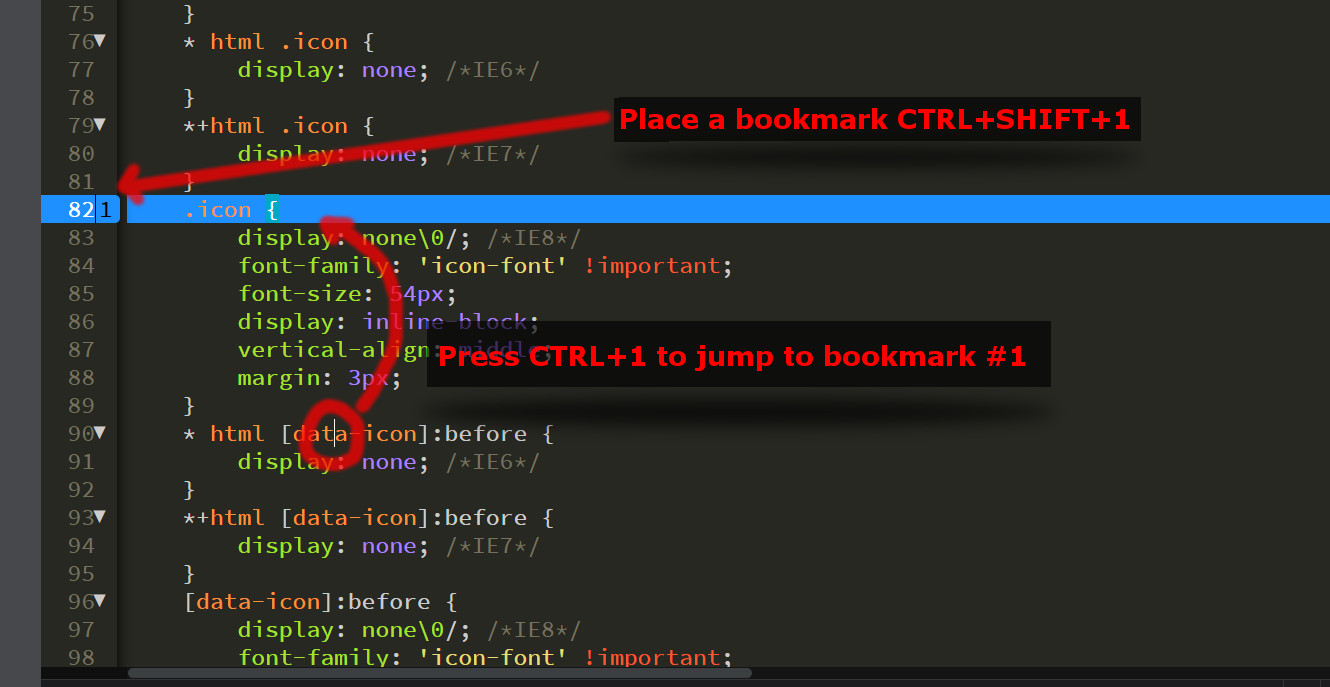
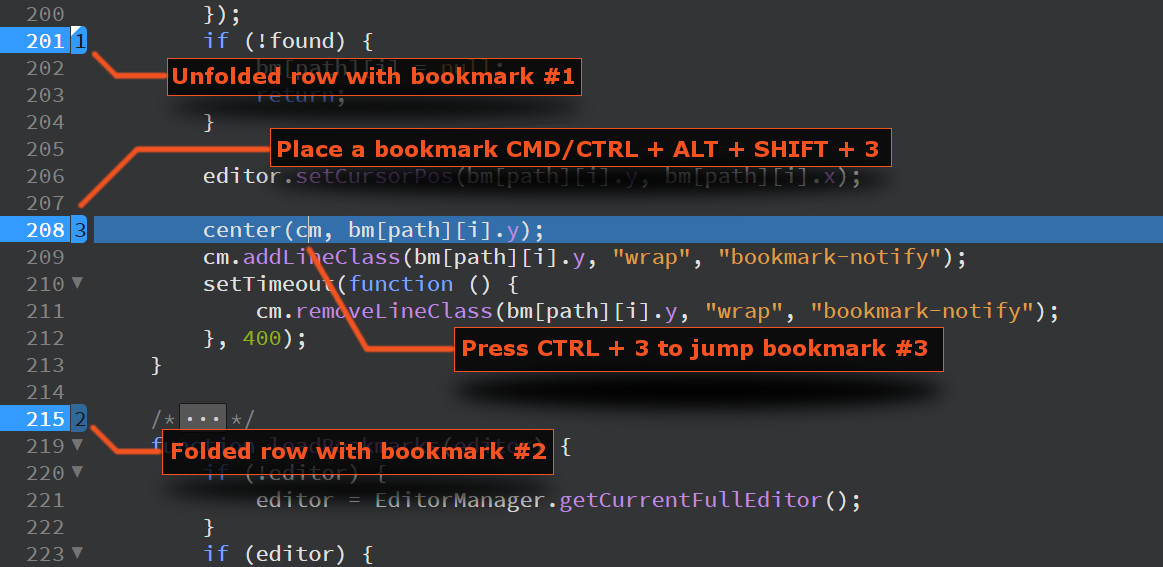
This fix #2, and fix #3 issues. Added fold/unfold indicator and a sexy transition when jump to bookmark.

diff --git a/styles/styles.css b/styles/styles.css
@@ -3,10 +3,9 @@
 }
 
 .bookmark .CodeMirror-linenumber {
-    /*background-image: url('../images/bookmark.svg');*/
-    background-size: 16px;
-    background-repeat: no-repeat;
+    background-color: dodgerblue !important;
     color: white !important;
+    height: 1.2em !important;
 }
 
 .active-pane .bookmark .CodeMirror-gutter-elt {
@@ -18,7 +17,14 @@
 }
 
 .bookmark-notify {
-    background-color: dodgerblue;
+      -webkit-animation: blink 0.4s linear infinite;
+      animation: blink 0.4s linear infinite;
+}
+@-webkit-keyframes blink {
+  50% { background-color: rgba(30, 144, 255, 0.7); }
+}
+@keyframes blink {
+  50% { background-color: rgba(30, 144, 255, 0.7); }
 }
 
 .bookmark-notify .CodeMirror-activeline-background {
@@ -33,27 +39,35 @@
     background-color: darkslateblue!important;
 }
 
-.bookmark.CodeMirror-activeline .CodeMirror-linenumber {
-    background-image: url('../images/bookmark.svg') !important;
-    background-size: 16px !important;
-    background-repeat: no-repeat !important;
-    color: white !important;
-}
-.bookmark-1 {
-/*    position: absolute; background: #6aa4cc; color: #000; border-left: 1px solid #000; border-top-right-radius: 3px; border-bottom-right-radius: 3px;*/
-}
-/*.bookmark-1 .CodeMirror-linenumber:after {*/
-
 
 .bookmark .CodeMirror-foldgutter-blank:first-child:after,
-.bookmark .CodeMirror-foldgutter-open:first-child:after {
-    border-left: 1px solid #000;
+.bookmark .CodeMirror-foldgutter-open:first-child:after,
+.bookmark .CodeMirror-foldgutter-folded:first-child:after {
     content:' ';
-    color: #000;
-    margin-left: 0px;
+    color: #000 !important;
+    margin-left: -2px;
     padding-left: 3px;
     line-height: 126%;
     font-size: 100%;
+    background: dodgerblue;
+    border-top-right-radius: 5px !important;
+    border-bottom-right-radius: 5px !important;
+    height: 1.2em !important;
+}
+.bookmark .CodeMirror-foldgutter-folded:first-child:after {
+    line-height: 106% !important;
+    background: rgba(30, 144, 255, 0.5);
+}
+.bookmark .CodeMirror-foldgutter-open:first-child:before {
+    content:' ';
+    top: -1px;
+    left: -2px;
+    width: 0;
+    height: 0;
+    position: absolute;
+    border-style: solid;
+    border-width: 10px 10px 0 0;
+    border-color: #ffffff transparent transparent transparent;
 }
 .bookmark .CodeMirror-foldgutter-open:first-child:after {
     line-height: 100%;
@@ -64,38 +78,47 @@
     border-bottom-right-radius: 5px !important;
 }
 .bookmark-1 .CodeMirror-foldgutter-blank:first-child:after,
-.bookmark-1 .CodeMirror-foldgutter-open:first-child:after {
+.bookmark-1 .CodeMirror-foldgutter-open:first-child:after,
+.bookmark-1 .CodeMirror-foldgutter-folded:first-child:after {
     content:'1';
 }
 .bookmark-2 .CodeMirror-foldgutter-blank:first-child:after,
-.bookmark-2 .CodeMirror-foldgutter-open:first-child:after {
+.bookmark-2 .CodeMirror-foldgutter-open:first-child:after,
+.bookmark-2 .CodeMirror-foldgutter-folded:first-child:after {
     content:'2';
 }
 .bookmark-3 .CodeMirror-foldgutter-blank:first-child:after,
-.bookmark-3 .CodeMirror-foldgutter-open:first-child:after {
+.bookmark-3 .CodeMirror-foldgutter-open:first-child:after,
+.bookmark-3 .CodeMirror-foldgutter-folded:first-child:after {
     content:'3';
 }
 .bookmark-4 .CodeMirror-foldgutter-blank:first-child:after,
-.bookmark-4 .CodeMirror-foldgutter-open:first-child:after {
+.bookmark-4 .CodeMirror-foldgutter-open:first-child:after,
+.bookmark-4 .CodeMirror-foldgutter-folded:first-child:after {
     content:'4';
 }
 .bookmark-5 .CodeMirror-foldgutter-blank:first-child:after,
-.bookmark-5 .CodeMirror-foldgutter-open:first-child:after {
+.bookmark-5 .CodeMirror-foldgutter-open:first-child:after,
+.bookmark-5 .CodeMirror-foldgutter-folded:first-child:after {
     content:'5';
 }
 .bookmark-6 .CodeMirror-foldgutter-blank:first-child:after,
-.bookmark-6 .CodeMirror-foldgutter-open:first-child:after {
+.bookmark-6 .CodeMirror-foldgutter-open:first-child:after,
+.bookmark-6 .CodeMirror-foldgutter-folded:first-child:after {
     content:'6';
 }
 .bookmark-7 .CodeMirror-foldgutter-blank:first-child:after,
-.bookmark-7 .CodeMirror-foldgutter-open:first-child:after {
+.bookmark-7 .CodeMirror-foldgutter-open:first-child:after,
+.bookmark-7 .CodeMirror-foldgutter-folded:first-child:after {
     content:'7';
 }
 .bookmark-8 .CodeMirror-foldgutter-blank:first-child:after,
-.bookmark-8 .CodeMirror-foldgutter-open:first-child:after {
+.bookmark-8 .CodeMirror-foldgutter-open:first-child:after,
+.bookmark-8 .CodeMirror-foldgutter-folded:first-child:after {
     content:'8';
 }
 .bookmark-9 .CodeMirror-foldgutter-blank:first-child:after,
-.bookmark-9 .CodeMirror-foldgutter-open:first-child:after {
+.bookmark-9 .CodeMirror-foldgutter-open:first-child:after,
+.bookmark-9 .CodeMirror-foldgutter-folded:first-child:after {
     content:'9';
 }

diff --git a/main.js b/main.js
@@ -58,17 +58,18 @@ define(function (require, exports, module) {
                 {key: shortcutMac, platform: "mac"},
             ]
         );
+        //KeyBindingManager.addBinding(commandId, shortcut);
     }
-    addhotkey("bracketsEditorBookmarks.deleteallbookmark",     "delete all bookmark",       function() {deleteAllBookmark()},   "Ctrl-Shift-Delete", "Cmd-ALT-Delete");
-    addhotkey("bracketsEditorBookmarks.setbookmark1",     "set #1",       function() {setBookmark(1)},   "Ctrl-Shift-1", "Cmd-ALT-1");
-    addhotkey("bracketsEditorBookmarks.setbookmark2",     "set #2",       function() {setBookmark(2)},   "Ctrl-Shift-2", "Cmd-ALT-2");
-    addhotkey("bracketsEditorBookmarks.setbookmark3",     "set #3",       function() {setBookmark(3)},   "Ctrl-Shift-3", "Cmd-ALT-3");
-    addhotkey("bracketsEditorBookmarks.setbookmark4",     "set #4",       function() {setBookmark(4)},   "Ctrl-Shift-4", "Cmd-ALT-4");
-    addhotkey("bracketsEditorBookmarks.setbookmark5",     "set #5",       function() {setBookmark(5)},   "Ctrl-Shift-5", "Cmd-ALT-5");
-    addhotkey("bracketsEditorBookmarks.setbookmark6",     "set #6",       function() {setBookmark(6)},   "Ctrl-Shift-6", "Cmd-ALT-6");
-    addhotkey("bracketsEditorBookmarks.setbookmark7",     "set #7",       function() {setBookmark(7)},   "Ctrl-Shift-7", "Cmd-ALT-7");
-    addhotkey("bracketsEditorBookmarks.setbookmark8",     "set #8",       function() {setBookmark(8)},   "Ctrl-Shift-8", "Cmd-ALT-8");
-    addhotkey("bracketsEditorBookmarks.setbookmark9",     "set #9",       function() {setBookmark(9)},   "Ctrl-Shift-9", "Cmd-ALT-9");
+    addhotkey("bracketsEditorBookmarks.deleteallbookmark",     "delete all bookmark",       function() {deleteAllBookmark()},   "Ctrl-Shift-Alt-Delete", "Cmd-ALT-Delete");
+    addhotkey("bracketsEditorBookmarks.setbookmark1",     "set #1",       function() {setBookmark(1)},   "Ctrl-Shift-Alt-1", "Cmd-SHIFT-ALT-1");
+    addhotkey("bracketsEditorBookmarks.setbookmark2",     "set #2",       function() {setBookmark(2)},   "Ctrl-Shift-Alt-2", "Cmd-SHIFT-ALT-2");
+    addhotkey("bracketsEditorBookmarks.setbookmark3",     "set #3",       function() {setBookmark(3)},   "Ctrl-Shift-Alt-3", "Cmd-SHIFT-ALT-3");
+    addhotkey("bracketsEditorBookmarks.setbookmark4",     "set #4",       function() {setBookmark(4)},   "Ctrl-Shift-Alt-4", "Cmd-SHIFT-ALT-4");
+    addhotkey("bracketsEditorBookmarks.setbookmark5",     "set #5",       function() {setBookmark(5)},   "Ctrl-Shift-Alt-5", "Cmd-SHIFT-ALT-5");
+    addhotkey("bracketsEditorBookmarks.setbookmark6",     "set #6",       function() {setBookmark(6)},   "Ctrl-Shift-Alt-6", "Cmd-SHIFT-ALT-6");
+    addhotkey("bracketsEditorBookmarks.setbookmark7",     "set #7",       function() {setBookmark(7)},   "Ctrl-Shift-Alt-7", "Cmd-SHIFT-ALT-7");
+    addhotkey("bracketsEditorBookmarks.setbookmark8",     "set #8",       function() {setBookmark(8)},   "Ctrl-Shift-Alt-8", "Cmd-SHIFT-ALT-8");
+    addhotkey("bracketsEditorBookmarks.setbookmark9",     "set #9",       function() {setBookmark(9)},   "Ctrl-Shift-Alt-9", "Cmd-SHIFT-ALT-9");
     addhotkey("bracketsEditorBookmarks.bookmark1",        "#1",           function() {bookmark(1)},      "Ctrl-1", "Cmd-1");
     addhotkey("bracketsEditorBookmarks.bookmark2",        "#2",           function() {bookmark(2)},      "Ctrl-2", "Cmd-2");
     addhotkey("bracketsEditorBookmarks.bookmark3",        "#3",           function() {bookmark(3)},      "Ctrl-3", "Cmd-3");
@@ -208,7 +209,7 @@ define(function (require, exports, module) {
         cm.addLineClass(bm[path][i].y, "wrap", "bookmark-notify");
         setTimeout(function () {
             cm.removeLineClass(bm[path][i].y, "wrap", "bookmark-notify");
-        }, 100);
+        }, 400);
     }
 
     /**

diff --git a/README.md b/README.md
@@ -1,5 +1,5 @@
 # Brackets Numbered Bookmarks Extension
-[Robert Girhiny](http://robertgirhiny.com)  
+[Robert Girhiny website](http://robertgirhiny.com)  
 robcaa@gmail.com  
 =-=-=-=-=-=-=-=-=-=-=-=-=-=-=-=-=-=-= =-=-=-=-=-=-=-=-=-=-=-=-=-=-=-=-=-=-= 
 
@@ -20,3 +20,11 @@ robcaa@gmail.com
   - You can set bookmarks:		CTRL+SHIFT+1, CTRL+SHIFT+2, ... CTRL+SHIFT+9  
   - You can jump to a bookmark: CTRL+1, CTRL+2, ... CTRL+9  
   - You can delete all bookmarks in the current document: CTRL+SHIFT+DELETE  
+  - ![howtouse](/howtouse.gif?raw=true)
+
+### Version log
+##### 0.9.3
+- folded and bookmarked line, now have a small white triangle to indicate folded line.
+- sexy transition when jump to a bookmark
+- Mac OSX shortcut bug fix [#2](https://github.com/robcaa/numbered-bookmarks/issues/2)
+- Keyboard shortcut conflict bug fix [#3](https://github.com/robcaa/numbered-bookmarks/issues/3)
